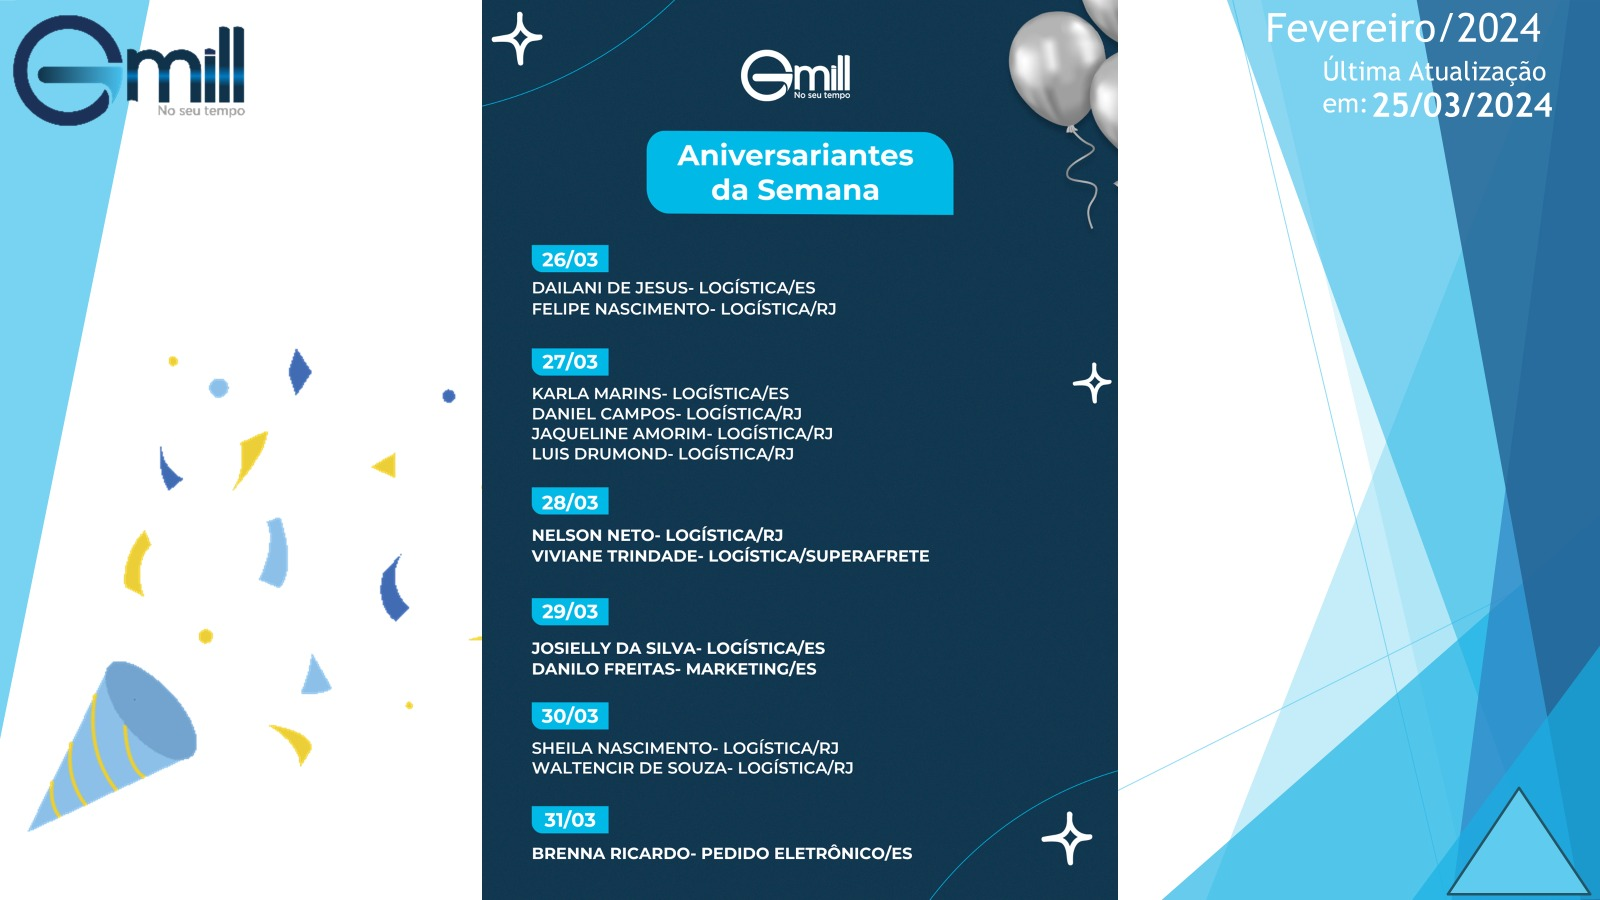
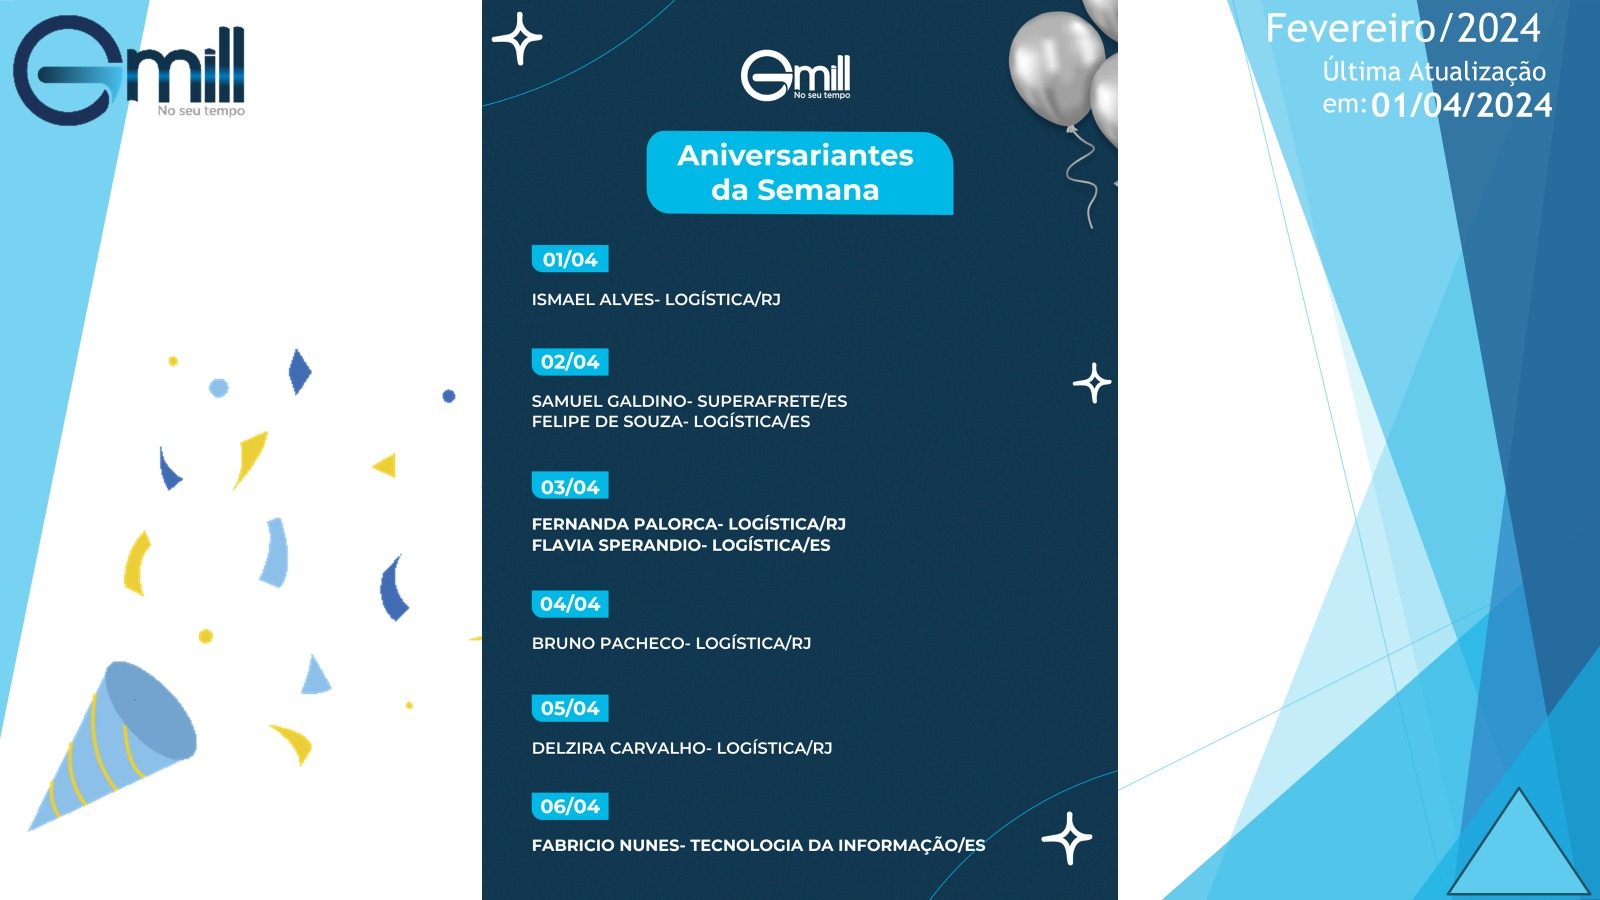
teste

Changed region(s): [[0.3125, 0.28, 0.5938, 0.6222], [0.3125, 0.6533, 0.625, 0.9644], [0.8438, 0.0933, 0.9062, 0.1244]]

diff --git a/index.html b/index.html
@@ -7,11 +7,13 @@
     <meta http-equiv="X-UA-Compatible" content="IE=edge">
     <meta name="viewport" content="width=device-width, initial-scale=1.0">
     <meta http-equiv="refresh" content="600">
-    <title> Gupo Gmill - RJ </title>
+    <title> Gupo Gmill - ES </title>
     <link href="https://cdn.jsdelivr.net/npm/bootstrap@5.3.2/dist/css/bootstrap.min.css" rel="stylesheet" integrity="sha384-T3c6CoIi6uLrA9TneNEoa7RxnatzjcDSCmG1MXxSR1GAsXEV/Dwwykc2MPK8M2HN" crossorigin="anonymous">
     <script src="https://cdn.jsdelivr.net/npm/bootstrap@5.3.2/dist/js/bootstrap.bundle.min.js" integrity="sha384-C6RzsynM9kWDrMNeT87bh95OGNyZPhcTNXj1NW7RuBCsyN/o0jlpcV8Qyq46cDfL" crossorigin="anonymous"></script>
     <link rel="stylesheet" href="style.css">
   </head>
+    
+  
 <body>
     <div class="container" style="width: 100%;">   
         <nav class="navbar navbar-expand-lg bg-#77" style="width: 100%;">
@@ -26,49 +28,66 @@
             <div class="carousel-inner">
               <div class="carousel-item active"
               data-bs-interval="12000">
-                <img src="img/pascoa/imgpascoaaa.jpeg" class="d-block w-100" alt="...">
+                <img src="img/Títulos/PainelDiario.gif" class="d-block w-100" alt="...">
               </div>
               <div class="carousel-item"
               data-bs-interval="12000">
-                <img src="img/pascoa/Slide1.JPG" class="d-block w-100" alt="..." data-bs-interval="10000">
+                <img src="img/Títulos/CritériosCesta.gif" class="d-block w-100" alt="..." data-bs-interval="10000">
+              </div>
+             <div class="carousel-item"
+              data-bs-interval="12000">
+                <img src="img/cesta.jpeg" class="d-block w-100" alt="...">
               </div>
               <div class="carousel-item"
               data-bs-interval="12000">
-                <img src="img/pascoa/Slide2.JPG" class="d-block w-100" alt="..." data-bs-interval="10000">
+                <img src="img/Indicadores GMILL - RJ/Slide5.jpeg" class="d-block w-100" alt="...">
               </div>
               <div class="carousel-item"
               data-bs-interval="12000">
-                <img src="img/pascoa/Slide3.JPG" class="d-block w-100" alt="..." data-bs-interval="10000">
+                <img src="img/Indicadores GMILL - RJ/Slide6.jpeg" class="d-block w-100" alt="...">
               </div>
               <div class="carousel-item"
               data-bs-interval="12000">
-                <img src="img/pascoa/Slide4.JPG" class="d-block w-100" alt="..." data-bs-interval="10000">
+                <img src="img/Indicadores GMILL - RJ/Slide8.jpeg" class="d-block w-100" alt="...">
+              </div>            
+              <!--<div class="carousel-item"
+              data-bs-interval="10000">
+                <img src="img/Títulos/Produção.gif" class="d-block w-100" alt="...">
               </div>
               <div class="carousel-item"
-              data-bs-interval="12000">
-                <img src="img/pascoa/Slide5.JPG" class="d-block w-100" alt="..." data-bs-interval="10000">
+              data-bs-interval="10000">
+                <img src="https://cecilianacruz.github.io/imagem-prod-corret/img/imagens/1.jpeg" class="d-block w-100" alt="...">
               </div>
               <div class="carousel-item"
-              data-bs-interval="12000">
-                <img src="img/pascoa/Slide6.JPG" class="d-block w-100" alt="..." data-bs-interval="10000">
+              data-bs-interval="10000">
+                <img src="https://cecilianacruz.github.io/imagem-prod-corret/img/imagens/2.jpeg" class="d-block w-100" alt="...">
               </div>
               <div class="carousel-item"
-              data-bs-interval="12000">
-                <img src="img/pascoa/Slide7.JPG" class="d-block w-100" alt="..." data-bs-interval="10000">
+              data-bs-interval="10000">
+                <img src="https://cecilianacruz.github.io/imagem-prod-corret/img/imagens/3.jpeg" class="d-block w-100" alt="...">
               </div>
               <div class="carousel-item"
-              data-bs-interval="12000">
-                <img src="img/pascoa/Slide8.JPG" class="d-block w-100" alt="..." data-bs-interval="10000">
+              data-bs-interval="10000">
+                <img src="https://cecilianacruz.github.io/imagem-prod-corret/img/imagens/4.jpeg" class="d-block w-100" alt="...">
+              </div>
+            -->
+              <div class="carousel-item"
+              data-bs-interval="10000">
+                <img src="img/aniversariantes.jpeg" class="d-block w-100" alt="...">
               </div>
               <div class="carousel-item"
-              data-bs-interval="12000">
-                <img src="img/pascoa/Slide9.JPG" class="d-block w-100" alt="..." data-bs-interval="10000">
+              data-bs-interval="10000">
+                <img src="img/Dengue.jpg" class="d-block w-100" alt="...">
               </div>
-              <div class="carousel-item"
-              data-bs-interval="12000">
-                <img src="img/pascoa/Slide10.JPG" class="d-block w-100" alt="..." data-bs-interval="10000">
-              </div>
-
+            <button class="carousel-control-prev" type="button" data-bs-target="#carouselExampleAutoplaying" data-bs-slide="prev">
+              <span class="carousel-control-prev-icon" aria-hidden="true"></span>
+              <span class="visually-hidden">Previous</span>
+            </button>
+            <button class="carousel-control-next" type="button" data-bs-target="#carouselExampleAutoplaying" data-bs-slide="next">
+              <span class="carousel-control-next-icon" aria-hidden="true"></span>
+              <span class="visually-hidden">Next</span>
+            </button>
+          </div>
     </div>
 
     
